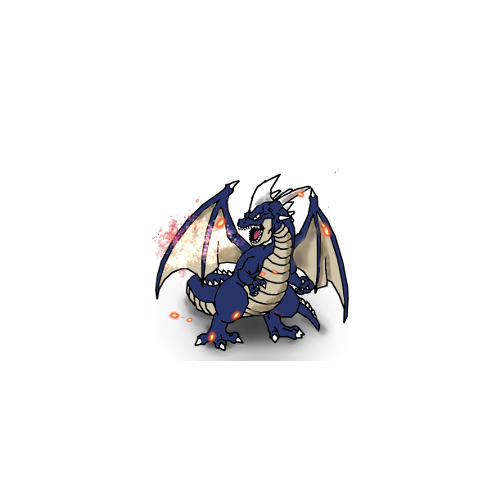
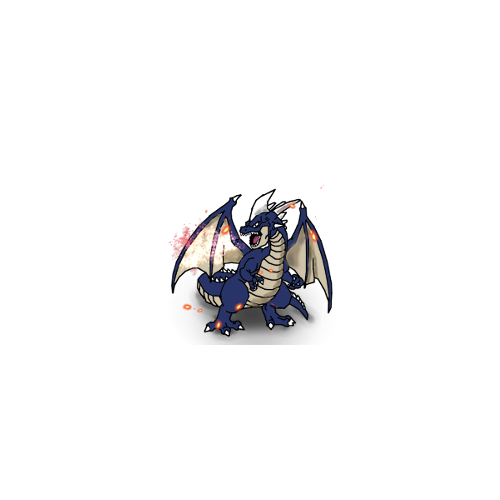
敵描画おｋ

Changed region(s): [[0.3, 0.33, 0.72, 0.72]]

diff --git a/DirectXGame/scene/GameScene.cpp b/DirectXGame/scene/GameScene.cpp
@@ -150,10 +150,10 @@ void GameScene::Initialize() {
 	enemyTextureHandle_[2] = TextureManager::Load("Goremu.png");
 	enemyTextureHandle_[3] = TextureManager::Load("Dragon.png");
 	// 敵スプライト
-	enemySprite_[0] = Sprite::Create(enemyTextureHandle_[0], { 300,150 });
-	enemySprite_[1] = Sprite::Create(enemyTextureHandle_[1], { 300,150 });
-	enemySprite_[2] = Sprite::Create(enemyTextureHandle_[2], { 540,150 });
-	enemySprite_[3] = Sprite::Create(enemyTextureHandle_[3], { 540,150 });
+	enemySprite_[0] = Sprite::Create(enemyTextureHandle_[0], { 400,25 });
+	enemySprite_[1] = Sprite::Create(enemyTextureHandle_[1], { 400,25 });
+	enemySprite_[2] = Sprite::Create(enemyTextureHandle_[2], { 380,10 });
+	enemySprite_[3] = Sprite::Create(enemyTextureHandle_[3], { 390,-10 });
 
 	//画像生成
 	TextureHandle_[0] = TextureManager::Load("UI/0.png");
@@ -596,9 +596,8 @@ void GameScene::Draw() {
 		}
 	}
 
-	enemySprite_[0]->Draw();
 
-	enemySprite_[1]->Draw();
+	enemySprite_[3]->Draw();
 
 	// スプライト描画後処理
 	Sprite::PostDraw();
